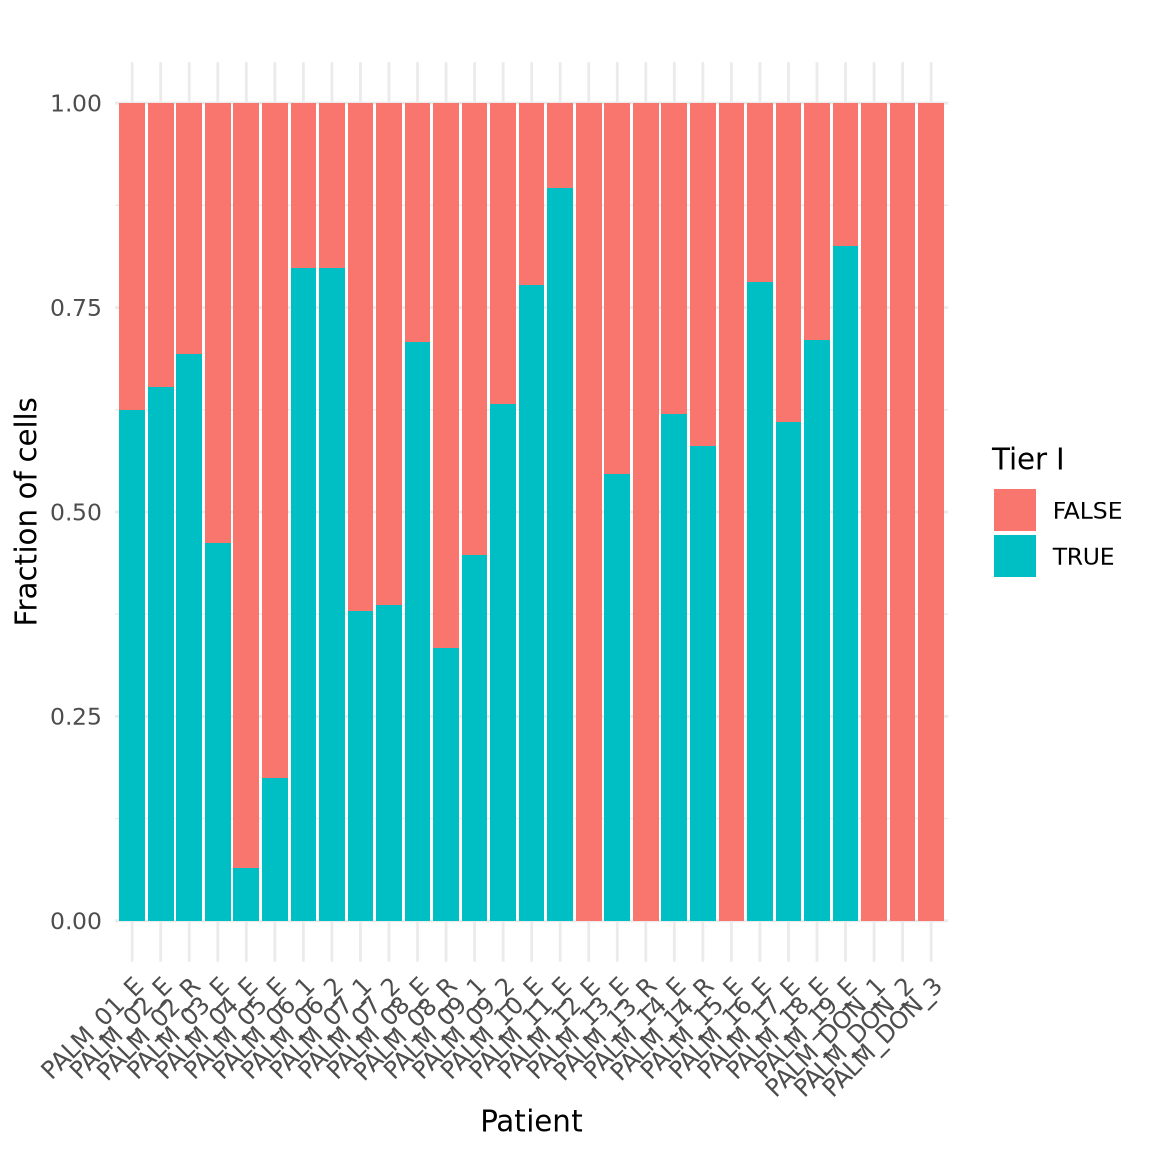
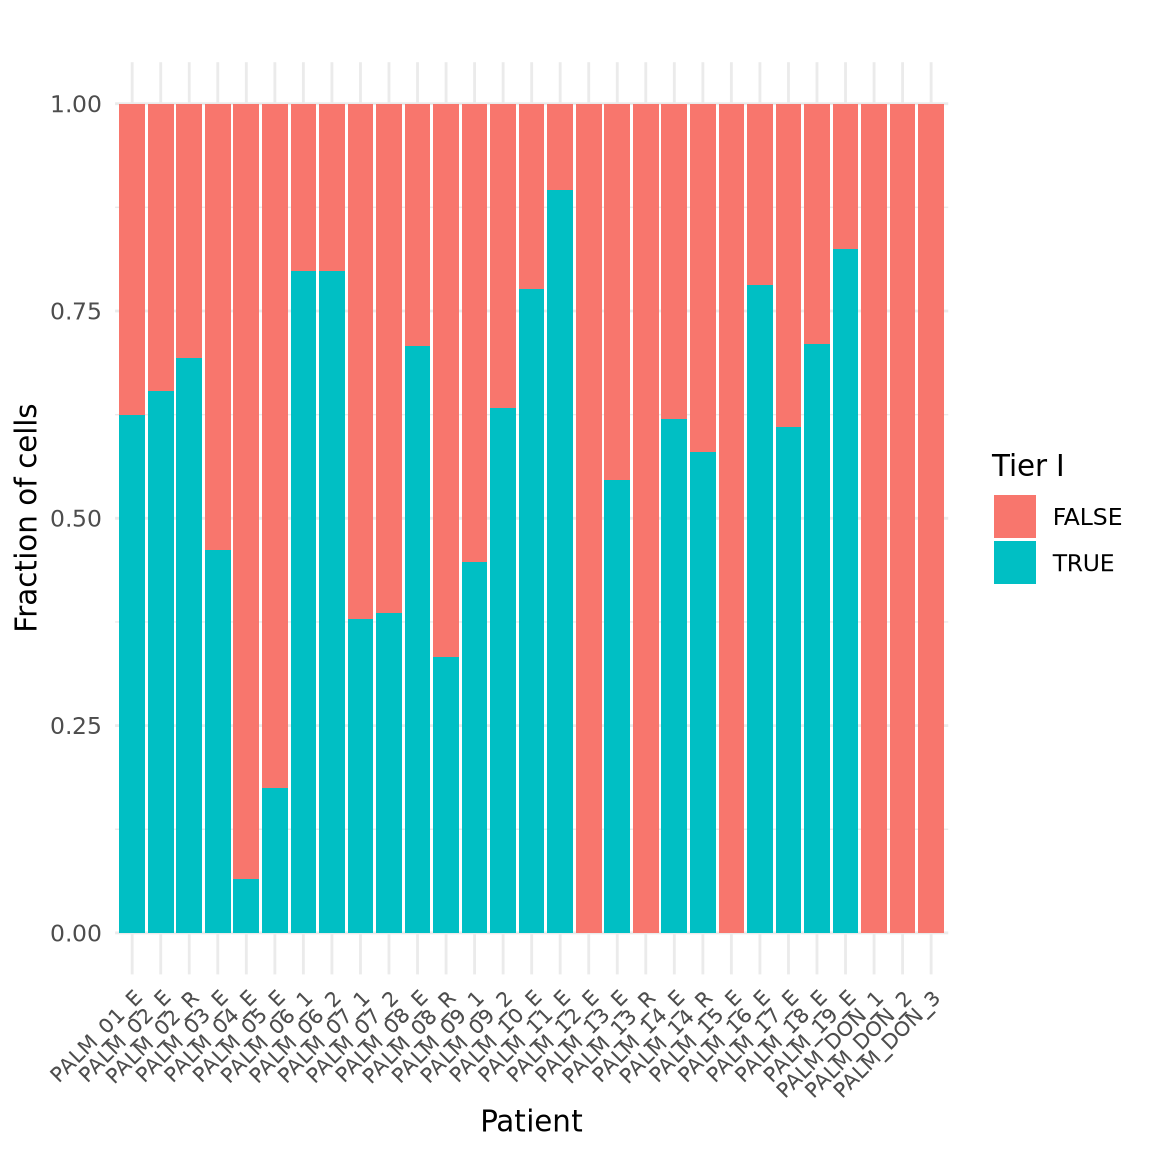
Build site.

diff --git a/docs/00_palm_malignant_non_malignant_annotations.html b/docs/00_palm_malignant_non_malignant_annotations.html
@@ -500,16 +500,16 @@ This reproducible <a href="https://rmarkdown.rstudio.com">R Markdown</a> analysi
 <div class="panel panel-default">
 <div class="panel-heading">
 <p class="panel-title">
-<a data-toggle="collapse" data-parent="#workflowr-checks" href="#strongRepositoryversionstrongahrefhttpsgithubcomieoresearchphenotypegenotypetreec30bbb858de37f24cac0245024b54cd2162f43c6targetblankc30bbb8a"> <span class="glyphicon glyphicon-ok text-success" aria-hidden="true"></span> <strong>Repository version:</strong> <a href="https://github.com/ieoresearch/phenotype_genotype/tree/c30bbb858de37f24cac0245024b54cd2162f43c6" target="_blank">c30bbb8</a> </a>
+<a data-toggle="collapse" data-parent="#workflowr-checks" href="#strongRepositoryversionstrongahrefhttpsgithubcomieoresearchphenotypegenotypetreea2db70e41493f3be8bbb3b24fda19803f21cc1e6targetblanka2db70ea"> <span class="glyphicon glyphicon-ok text-success" aria-hidden="true"></span> <strong>Repository version:</strong> <a href="https://github.com/ieoresearch/phenotype_genotype/tree/a2db70e41493f3be8bbb3b24fda19803f21cc1e6" target="_blank">a2db70e</a> </a>
 </p>
 </div>
[2 lines of base64/hex data omitted]
 <div class="panel-body">
 <p>
 Great! You are using Git for version control. Tracking code development and connecting the code version to the results is critical for reproducibility.
 </p>
 <p>
-The results in this page were generated with repository version <a href="https://github.com/ieoresearch/phenotype_genotype/tree/c30bbb858de37f24cac0245024b54cd2162f43c6" target="_blank">c30bbb8</a>. See the <em>Past versions</em> tab to see a history of the changes made to the R Markdown and HTML files.
+The results in this page were generated with repository version <a href="https://github.com/ieoresearch/phenotype_genotype/tree/a2db70e41493f3be8bbb3b24fda19803f21cc1e6" target="_blank">a2db70e</a>. See the <em>Past versions</em> tab to see a history of the changes made to the R Markdown and HTML files.
 </p>
 <p>
 Note that you need to be careful to ensure that all relevant files for the analysis have been committed to Git prior to generating the results (you can use <code>wflow_publish</code> or <code>wflow_git_commit</code>). workflowr only checks the R Markdown file, but you know if there are other scripts or data files that it depends on. Below is the status of the Git repository when the results were generated:
@@ -518,9 +518,6 @@ Note that you need to be careful to ensure that all relevant files for the analy
 Ignored files:
     Ignored:    data/
     Ignored:    src/
-
-Untracked files:
-    Untracked:  analysis/01_palm_tme_annotation.Rmd
 
 </code></pre>
 <p>
@@ -559,6 +556,40 @@ Message
 </tr>
 </thead>
 <tbody>
+<tr>
+<td>
+Rmd
+</td>
+<td>
+<a href="https://github.com/ieoresearch/phenotype_genotype/blob/a2db70e41493f3be8bbb3b24fda19803f21cc1e6/analysis/00_palm_malignant_non_malignant_annotations.Rmd" target="_blank">a2db70e</a>
+</td>
+<td>
+mdelcorvo
+</td>
+<td>
+2024-11-14
+</td>
+<td>
+Fix sample names
+</td>
+</tr>
+<tr>
+<td>
+html
+</td>
+<td>
+<a href="https://rawcdn.githack.com/ieoresearch/phenotype_genotype/7fee1c8b1b44d75eab79884bab17be65628c1251/docs/00_palm_malignant_non_malignant_annotations.html" target="_blank">7fee1c8</a>
+</td>
+<td>
+mdelcorvo
+</td>
+<td>
+2024-11-14
+</td>
+<td>
+Build site.
+</td>
+</tr>
 <tr>
 <td>
 Rmd
